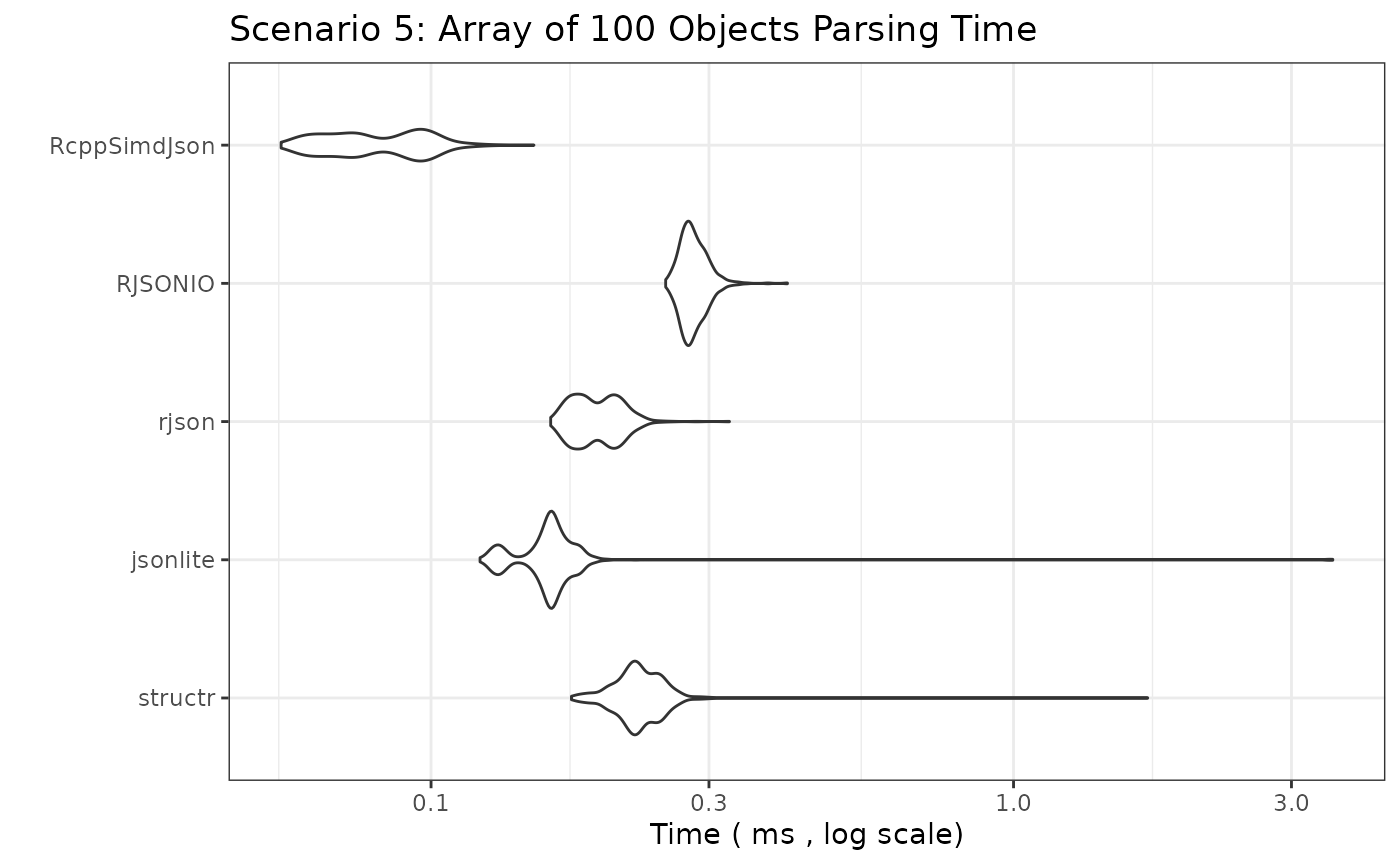
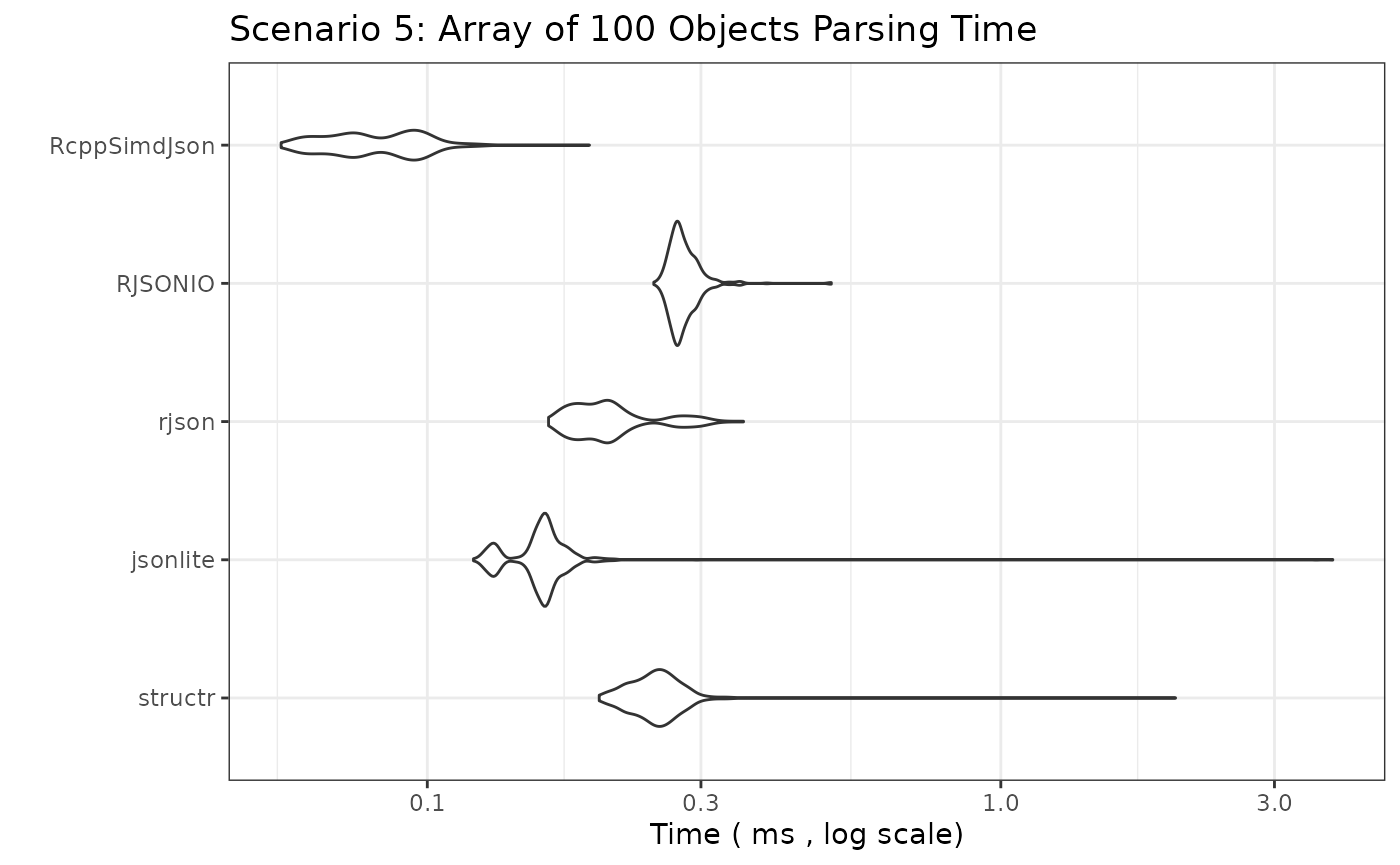
Deploying to gh-pages from @ ixpantia/structr@2acc0bbc21110697dcfd57683c87b0a5578f7c5c 🚀

diff --git a/articles/bench.html b/articles/bench.html
@@ -161,11 +161,11 @@ speed.</p>
 <span><span class="op">)</span></span></code></pre></div>
 <pre><code><span><span class="co">## Unit: microseconds</span></span>
 <span><span class="co">##          expr    min      lq      mean  median      uq      max neval</span></span>
-<span><span class="co">##       structr  4.739  7.6195  9.531368  9.6075 10.7400   34.294  1000</span></span>
-<span><span class="co">##      jsonlite 42.359 50.8900 57.474889 54.3760 63.5180  150.040  1000</span></span>
-<span><span class="co">##         rjson 28.032 36.9490 45.327698 41.5925 46.6675 2754.062  1000</span></span>
-<span><span class="co">##       RJSONIO 35.386 43.6870 49.420515 48.2950 53.4000  112.721  1000</span></span>
-<span><span class="co">##  RcppSimdJson 20.979 28.3025 32.683047 31.7790 35.4560   69.149  1000</span></span></code></pre>
+<span><span class="co">##       structr  4.989  7.7940  9.906767  9.8580 11.0660   59.732  1000</span></span>
+<span><span class="co">##      jsonlite 43.831 51.6215 58.689988 55.4490 65.2920  143.909  1000</span></span>
+<span><span class="co">##         rjson 28.904 37.7000 47.067163 42.1430 47.4635 3731.826  1000</span></span>
+<span><span class="co">##       RJSONIO 34.294 44.8685 50.360389 49.1370 54.2310  162.914  1000</span></span>
+<span><span class="co">##  RcppSimdJson 22.092 28.9490 33.366183 32.2105 36.0820  107.991  1000</span></span></code></pre>
 <p><img src="bench_files/figure-html/bm_simple_object-1.png" width="700" style="display: block; margin: auto;"></p>
 </div>
 <div class="section level3">
@@ -186,12 +186,12 @@ speed.</p>
 <span>  y_label <span class="op">=</span> <span class="fu"><a href="https://rdrr.io/r/base/paste.html" class="external-link">paste</a></span><span class="op">(</span><span class="st">"Time ("</span>, <span class="va">benchmark_unit_fast</span>, <span class="st">", log scale)"</span><span class="op">)</span></span>
 <span><span class="op">)</span></span></code></pre></div>
 <pre><code><span><span class="co">## Unit: microseconds</span></span>
-<span><span class="co">##          expr    min      lq      mean  median     uq      max neval</span></span>
-<span><span class="co">##       structr  3.827  6.0865  7.612567  7.8450  8.926   27.732  1000</span></span>
-<span><span class="co">##      jsonlite 32.220 37.8110 41.422558 41.0520 43.581   82.504  1000</span></span>
-<span><span class="co">##         rjson 32.211 38.3315 43.097983 43.3655 46.246  114.724  1000</span></span>
-<span><span class="co">##       RJSONIO 45.965 53.3795 61.123997 57.5125 60.924 3058.931  1000</span></span>
-<span><span class="co">##  RcppSimdJson 21.270 26.0485 30.165365 30.5470 32.816   83.606  1000</span></span></code></pre>
+<span><span class="co">##          expr    min      lq      mean median      uq      max neval</span></span>
+<span><span class="co">##       structr  3.847  6.0665  7.662411  7.855  8.9820   32.281  1000</span></span>
+<span><span class="co">##      jsonlite 32.681 38.4665 42.054793 41.693 44.3875  105.297  1000</span></span>
+<span><span class="co">##         rjson 32.772 38.1510 43.206272 43.552 46.2820  128.961  1000</span></span>
+<span><span class="co">##       RJSONIO 44.633 53.1990 61.617376 57.532 61.0190 3775.538  1000</span></span>
+<span><span class="co">##  RcppSimdJson 21.740 26.4800 30.135511 30.467 32.6810   76.092  1000</span></span></code></pre>
 <p><img src="bench_files/figure-html/bm_simple_array_int-1.png" width="700" style="display: block; margin: auto;"></p>
 </div>
 <div class="section level3">
@@ -213,11 +213,11 @@ speed.</p>
 <span><span class="op">)</span></span></code></pre></div>
 <pre><code><span><span class="co">## Unit: microseconds</span></span>
 <span><span class="co">##          expr    min      lq      mean  median      uq      max neval</span></span>
-<span><span class="co">##       structr  4.027  6.3515  7.577301  7.8150  8.7210   31.419  1000</span></span>
-<span><span class="co">##      jsonlite 25.648 30.4770 33.981053 33.5525 35.7825   73.928  1000</span></span>
-<span><span class="co">##         rjson 30.136 36.1425 40.461900 40.5205 43.0855  123.150  1000</span></span>
-<span><span class="co">##       RJSONIO 41.737 48.3950 52.873817 52.1170 55.3340  152.876  1000</span></span>
-<span><span class="co">##  RcppSimdJson 21.651 26.4750 33.131584 30.3515 32.5210 3058.911  1000</span></span></code></pre>
+<span><span class="co">##       structr  4.298  6.6525  8.032676  8.2200  9.2270   43.501  1000</span></span>
+<span><span class="co">##      jsonlite 26.669 32.8565 36.452806 35.7470 38.9530  138.749  1000</span></span>
+<span><span class="co">##         rjson 30.617 38.6970 43.426226 42.9255 46.5820  164.327  1000</span></span>
+<span><span class="co">##       RJSONIO 42.350 51.1855 56.598440 55.6440 60.1120  232.204  1000</span></span>
+<span><span class="co">##  RcppSimdJson 22.562 29.8205 38.808722 33.0270 36.6985 5081.154  1000</span></span></code></pre>
 <p><img src="bench_files/figure-html/bm_simple_array_str-1.png" width="700" style="display: block; margin: auto;"></p>
 </div>
 <div class="section level3">
@@ -240,11 +240,11 @@ speed.</p>
 <span><span class="op">)</span></span></code></pre></div>
 <pre><code><span><span class="co">## Unit: microseconds</span></span>
 <span><span class="co">##          expr    min      lq     mean  median      uq      max neval</span></span>
-<span><span class="co">##       structr 17.322 22.8525 25.73599 26.0490 27.9120   70.802  1000</span></span>
-<span><span class="co">##      jsonlite 25.969 34.0340 40.95289 37.7005 40.1900 2946.371  1000</span></span>
-<span><span class="co">##         rjson 41.428 51.7920 57.20000 57.3970 60.8890  123.110  1000</span></span>
-<span><span class="co">##       RJSONIO 54.662 64.5460 71.17018 70.0960 74.7045  179.987  1000</span></span>
-<span><span class="co">##  RcppSimdJson 29.305 37.2950 43.35819 43.6370 46.9630  136.004  1000</span></span></code></pre>
+<span><span class="co">##       structr 18.736 27.3460 31.32745 30.2915 33.7230   76.672  1000</span></span>
+<span><span class="co">##      jsonlite 26.840 36.7635 46.91324 40.1550 44.7185 5061.427  1000</span></span>
+<span><span class="co">##         rjson 42.169 55.8040 63.76038 61.2995 67.9070  149.576  1000</span></span>
+<span><span class="co">##       RJSONIO 57.437 70.0360 79.15891 75.9920 83.7010  210.573  1000</span></span>
+<span><span class="co">##  RcppSimdJson 29.976 42.9705 50.31556 47.8845 54.9570  158.986  1000</span></span></code></pre>
 <p><img src="bench_files/figure-html/bm_nested_object-1.png" width="700" style="display: block; margin: auto;"></p>
 </div>
 <div class="section level3">
@@ -265,12 +265,12 @@ speed.</p>
 <span>  y_label <span class="op">=</span> <span class="fu"><a href="https://rdrr.io/r/base/paste.html" class="external-link">paste</a></span><span class="op">(</span><span class="st">"Time ("</span>, <span class="va">benchmark_unit_medium</span>, <span class="st">", log scale)"</span><span class="op">)</span></span>
 <span><span class="op">)</span></span></code></pre></div>
 <pre><code><span><span class="co">## Unit: milliseconds</span></span>
-<span><span class="co">##          expr      min        lq       mean    median        uq      max neval</span></span>
-<span><span class="co">##       structr 0.174186 0.2154325 0.23050698 0.2263430 0.2425380 1.699343   500</span></span>
-<span><span class="co">##      jsonlite 0.121366 0.1523145 0.17155583 0.1604500 0.1672930 3.532615   500</span></span>
-<span><span class="co">##         rjson 0.160469 0.1769355 0.19340343 0.1901850 0.2074275 0.325307   500</span></span>
-<span><span class="co">##       RJSONIO 0.252802 0.2716820 0.28294108 0.2797825 0.2915600 0.409123   500</span></span>
-<span><span class="co">##  RcppSimdJson 0.055283 0.0671510 0.08172379 0.0777400 0.0958390 0.150201   500</span></span></code></pre>
+<span><span class="co">##          expr      min        lq       mean    median       uq      max neval</span></span>
+<span><span class="co">##       structr 0.199412 0.2329150 0.25422363 0.2504375 0.265245 2.017085   500</span></span>
+<span><span class="co">##      jsonlite 0.120365 0.1522840 0.17143060 0.1596730 0.165464 3.791928   500</span></span>
+<span><span class="co">##         rjson 0.162713 0.1833475 0.21082560 0.2027935 0.218503 0.355935   500</span></span>
+<span><span class="co">##       RJSONIO 0.248263 0.2693580 0.28081374 0.2761205 0.287877 0.506385   500</span></span>
+<span><span class="co">##  RcppSimdJson 0.055603 0.0692740 0.08215516 0.0789675 0.094767 0.191798   500</span></span></code></pre>
 <p><img src="bench_files/figure-html/bm_array_of_objects-1.png" width="700" style="display: block; margin: auto;"></p>
 </div>
 <div class="section level3">
@@ -294,12 +294,12 @@ speed.</p>
 <span>  y_label <span class="op">=</span> <span class="fu"><a href="https://rdrr.io/r/base/paste.html" class="external-link">paste</a></span><span class="op">(</span><span class="st">"Time ("</span>, <span class="va">benchmark_unit_medium</span>, <span class="st">", log scale)"</span><span class="op">)</span></span>
 <span><span class="op">)</span></span></code></pre></div>
 <pre><code><span><span class="co">## Unit: milliseconds</span></span>
-<span><span class="co">##          expr      min        lq      mean   median       uq       max neval</span></span>
-<span><span class="co">##       structr 1.986429 2.2419055 2.4553968 2.336216 2.473233 14.695656   500</span></span>
-<span><span class="co">##      jsonlite 1.375197 1.4279660 1.5303207 1.451615 1.526545  7.036176   500</span></span>
-<span><span class="co">##         rjson 1.336846 1.3897195 1.5510406 1.417456 1.586508  7.551719   500</span></span>
-<span><span class="co">##       RJSONIO 2.025120 2.1868580 2.2916822 2.208829 2.270634  7.335415   500</span></span>
-<span><span class="co">##  RcppSimdJson 0.338092 0.3614995 0.4206155 0.378687 0.408423  0.650985   500</span></span></code></pre>
+<span><span class="co">##          expr      min       lq      mean   median        uq       max neval</span></span>
+<span><span class="co">##       structr 2.265769 2.578804 2.9036278 2.752107 3.0048440 17.525653   500</span></span>
+<span><span class="co">##      jsonlite 1.406956 1.475383 1.5886650 1.538727 1.6026615  6.865344   500</span></span>
+<span><span class="co">##         rjson 1.340402 1.435229 1.6528901 1.487977 1.6257095  8.911183   500</span></span>
+<span><span class="co">##       RJSONIO 2.023657 2.202567 2.3494681 2.261662 2.4152935  9.461571   500</span></span>
+<span><span class="co">##  RcppSimdJson 0.335297 0.362156 0.4459746 0.398183 0.4539875  5.953533   500</span></span></code></pre>
 <p><img src="bench_files/figure-html/bm_large_array_of_objects-1.png" width="700" style="display: block; margin: auto;"></p>
 </div>
 <div class="section level3">
@@ -323,11 +323,11 @@ speed.</p>
 <span><span class="op">)</span></span></code></pre></div>
 <pre><code><span><span class="co">## Unit: milliseconds</span></span>
 <span><span class="co">##          expr      min        lq      mean    median        uq       max neval</span></span>
-<span><span class="co">##       structr 0.185797 0.1936065 0.2078925 0.2000630 0.2204365  0.331228   500</span></span>
-<span><span class="co">##      jsonlite 2.258808 2.6054090 2.7719932 2.6792170 2.7676675 12.109067   500</span></span>
-<span><span class="co">##         rjson 1.039150 1.0654790 1.1567090 1.0788395 1.1047925 12.110981   500</span></span>
-<span><span class="co">##       RJSONIO 2.554389 2.6021480 2.7123386 2.6177225 2.6400540  7.266867   500</span></span>
-<span><span class="co">##  RcppSimdJson 0.189203 0.2030140 0.2203757 0.2122915 0.2365670  0.351796   500</span></span></code></pre>
+<span><span class="co">##       structr 0.186648 0.1962810 0.2138085 0.2072770 0.2259120  0.347279   500</span></span>
+<span><span class="co">##      jsonlite 2.301356 2.6336960 2.8455811 2.7374850 2.9012150  8.663511   500</span></span>
+<span><span class="co">##         rjson 1.045953 1.0732380 1.1874971 1.0961815 1.1324645 12.273910   500</span></span>
+<span><span class="co">##       RJSONIO 2.524543 2.5886515 2.7384983 2.6165240 2.6586880 10.160956   500</span></span>
+<span><span class="co">##  RcppSimdJson 0.190897 0.2064355 0.2320636 0.2234775 0.2521605  0.384829   500</span></span></code></pre>
 <p><img src="bench_files/figure-html/bm_large_array_int-1.png" width="700" style="display: block; margin: auto;"></p>
 </div>
 <div class="section level3">
@@ -350,12 +350,12 @@ speed.</p>
 <span>  y_label <span class="op">=</span> <span class="fu"><a href="https://rdrr.io/r/base/paste.html" class="external-link">paste</a></span><span class="op">(</span><span class="st">"Time ("</span>, <span class="va">benchmark_unit_medium</span>, <span class="st">", log scale)"</span><span class="op">)</span></span>
 <span><span class="op">)</span></span></code></pre></div>
 <pre><code><span><span class="co">## Unit: milliseconds</span></span>
-<span><span class="co">##          expr      min       lq      mean    median        uq       max neval</span></span>
-<span><span class="co">##       structr 0.674389 0.694186 0.7159985 0.7046555 0.7303840  1.102488   500</span></span>
-<span><span class="co">##      jsonlite 2.252555 2.375455 2.5490808 2.4516975 2.6007410 12.412604   500</span></span>
-<span><span class="co">##         rjson 1.299527 1.327723 1.4289570 1.3453065 1.3783135  5.973203   500</span></span>
-<span><span class="co">##       RJSONIO 3.436827 3.497781 3.6296829 3.5207730 3.5551575  8.331405   500</span></span>
-<span><span class="co">##  RcppSimdJson 0.634154 0.656706 0.6811816 0.6703460 0.7008585  1.223705   500</span></span></code></pre>
+<span><span class="co">##          expr      min        lq      mean    median        uq       max neval</span></span>
+<span><span class="co">##       structr 0.678015 0.7033525 0.7276360 0.7213115 0.7443845  1.108359   500</span></span>
+<span><span class="co">##      jsonlite 2.253456 2.4883650 2.7508679 2.6223450 2.8439930 15.095326   500</span></span>
+<span><span class="co">##         rjson 1.326837 1.3615315 1.4917891 1.3976740 1.4380790  9.131083   500</span></span>
+<span><span class="co">##       RJSONIO 3.469116 3.5474370 3.7232365 3.5966035 3.6607125 11.999147   500</span></span>
+<span><span class="co">##  RcppSimdJson 0.635537 0.6561195 0.6975611 0.6845730 0.7209705  1.227180   500</span></span></code></pre>
 <p><img src="bench_files/figure-html/bm_large_array_str-1.png" width="700" style="display: block; margin: auto;"></p>
 </div>
 <div class="section level3">
@@ -377,12 +377,12 @@ speed.</p>
 <span>  y_label <span class="op">=</span> <span class="fu"><a href="https://rdrr.io/r/base/paste.html" class="external-link">paste</a></span><span class="op">(</span><span class="st">"Time ("</span>, <span class="va">benchmark_unit_fast</span>, <span class="st">", log scale)"</span><span class="op">)</span></span>
 <span><span class="op">)</span></span></code></pre></div>
 <pre><code><span><span class="co">## Unit: microseconds</span></span>
-<span><span class="co">##          expr    min      lq      mean median      uq       max neval</span></span>
-<span><span class="co">##       structr 12.694 15.9150  17.94394 17.923 19.3360    56.666  1000</span></span>
-<span><span class="co">##      jsonlite 16.431 19.8170  22.57456 22.452 24.1300    71.123  1000</span></span>
-<span><span class="co">##         rjson 29.916 35.8120  40.18560 40.461 43.1355   110.686  1000</span></span>
-<span><span class="co">##       RJSONIO 38.842 45.4745 136.76639 49.202 52.5380 87077.703  1000</span></span>
-<span><span class="co">##  RcppSimdJson 23.263 27.8970  32.07394 32.035 34.3440    83.666  1000</span></span></code></pre>
+<span><span class="co">##          expr    min      lq      mean  median      uq       max neval</span></span>
+<span><span class="co">##       structr 13.034 16.0300  18.01704 17.9235 19.2100    61.525  1000</span></span>
+<span><span class="co">##      jsonlite 16.691 20.2680  22.97048 22.8975 24.4655    83.687  1000</span></span>
+<span><span class="co">##         rjson 29.996 36.1730  40.75715 40.7965 43.5065   109.114  1000</span></span>
+<span><span class="co">##       RJSONIO 38.732 45.7200 148.37933 49.3870 52.5685 98471.302  1000</span></span>
+<span><span class="co">##  RcppSimdJson 24.236 28.5635  32.24208 32.2805 34.3595    82.273  1000</span></span></code></pre>
 <p><img src="bench_files/figure-html/bm_deep_nest-1.png" width="700" style="display: block; margin: auto;"></p>
 </div>
 <div class="section level3">
@@ -405,11 +405,11 @@ speed.</p>
 <span><span class="op">)</span></span></code></pre></div>
 <pre><code><span><span class="co">## Unit: milliseconds</span></span>
 <span><span class="co">##          expr      min        lq       mean    median        uq      max neval</span></span>
-<span><span class="co">##       structr 0.059050 0.0679365 0.07280493 0.0716240 0.0749045 0.115245   500</span></span>
-<span><span class="co">##      jsonlite 0.039624 0.0495675 0.05371117 0.0532045 0.0560545 0.108112   500</span></span>
-<span><span class="co">##         rjson 0.062907 0.0723400 0.08943322 0.0788620 0.0838970 5.003141   500</span></span>
-<span><span class="co">##       RJSONIO 0.084147 0.0918615 0.10016670 0.0981340 0.1050160 0.185957   500</span></span>
-<span><span class="co">##  RcppSimdJson 0.032791 0.0406510 0.04706820 0.0465415 0.0516110 0.116617   500</span></span></code></pre>
+<span><span class="co">##       structr 0.061995 0.0742585 0.07999881 0.0787970 0.0837565 0.147165   500</span></span>
+<span><span class="co">##      jsonlite 0.042308 0.0515765 0.05604308 0.0552780 0.0587245 0.133369   500</span></span>
+<span><span class="co">##         rjson 0.063889 0.0745540 0.09702592 0.0807455 0.0856000 7.707186   500</span></span>
+<span><span class="co">##       RJSONIO 0.083105 0.0932540 0.10088961 0.0988540 0.1057275 0.222735   500</span></span>
+<span><span class="co">##  RcppSimdJson 0.033592 0.0416080 0.04810750 0.0476740 0.0527835 0.125875   500</span></span></code></pre>
 <p><img src="bench_files/figure-html/bm_wide_object-1.png" width="700" style="display: block; margin: auto;"></p>
 </div>
 </div>

diff --git a/articles/getting_started.html b/articles/getting_started.html
@@ -486,11 +486,13 @@ requirements for serialization:</p>
 <span><span class="co">#&gt; Map {</span></span>
 <span><span class="co">#&gt;     fields: {</span></span>
 <span><span class="co">#&gt;         "eventId": String,</span></span>
+<span><span class="co">#&gt;         "eventType": String,</span></span>
 <span><span class="co">#&gt;         "eventDate": Date {</span></span>
 <span><span class="co">#&gt;             format: "%Y%m%d",</span></span>
 <span><span class="co">#&gt;         },</span></span>
 <span><span class="co">#&gt;         "details": Map {</span></span>
 <span><span class="co">#&gt;             fields: {</span></span>
+<span><span class="co">#&gt;                 "source": String,</span></span>
 <span><span class="co">#&gt;                 "metadata": Optional(</span></span>
 <span><span class="co">#&gt;                     Map {</span></span>
 <span><span class="co">#&gt;                         fields: {</span></span>
@@ -508,24 +510,22 @@ requirements for serialization:</p>
 <span><span class="co">#&gt;                         ],</span></span>
 <span><span class="co">#&gt;                     },</span></span>
 <span><span class="co">#&gt;                 ),</span></span>
-<span><span class="co">#&gt;                 "source": String,</span></span>
 <span><span class="co">#&gt;             },</span></span>
 <span><span class="co">#&gt;             ignore_extra_fields: false,</span></span>
 <span><span class="co">#&gt;             expected_fields_str: [</span></span>
-<span><span class="co">#&gt;                 "metadata",</span></span>
 <span><span class="co">#&gt;                 "source",</span></span>
+<span><span class="co">#&gt;                 "metadata",</span></span>
 <span><span class="co">#&gt;             ],</span></span>
 <span><span class="co">#&gt;         },</span></span>
 <span><span class="co">#&gt;         "userId": Integer,</span></span>
-<span><span class="co">#&gt;         "eventType": String,</span></span>
 <span><span class="co">#&gt;     },</span></span>
 <span><span class="co">#&gt;     ignore_extra_fields: false,</span></span>
 <span><span class="co">#&gt;     expected_fields_str: [</span></span>
 <span><span class="co">#&gt;         "eventId",</span></span>
+<span><span class="co">#&gt;         "eventType",</span></span>
 <span><span class="co">#&gt;         "eventDate",</span></span>
 <span><span class="co">#&gt;         "details",</span></span>
 <span><span class="co">#&gt;         "userId",</span></span>
-<span><span class="co">#&gt;         "eventType",</span></span>
 <span><span class="co">#&gt;     ],</span></span>
 <span><span class="co">#&gt; }</span></span></code></pre></div>
 <p>Now, let’s create some R data that we want to send to this API. It’s
@@ -593,45 +593,45 @@ before producing the JSON.</p>
 <span><span class="fu"><a href="../reference/serialize_json.html">serialize_json</a></span><span class="op">(</span><span class="va">log_entry_data_1</span>, <span class="va">compiled_log_entry_structure_serialize</span>, pretty <span class="op">=</span> <span class="cn">TRUE</span><span class="op">)</span></span>
 <span><span class="co">#&gt; {</span></span>
 <span><span class="co">#&gt;   "eventId": "evt-aaa-001",</span></span>
+<span><span class="co">#&gt;   "eventType": "user_login",</span></span>
 <span><span class="co">#&gt;   "eventDate": "20240815",</span></span>
 <span><span class="co">#&gt;   "details": {</span></span>
+<span><span class="co">#&gt;     "source": "web_frontend",</span></span>
 <span><span class="co">#&gt;     "metadata": {</span></span>
 <span><span class="co">#&gt;       "key": "session_duration",</span></span>
 <span><span class="co">#&gt;       "value": 350.5</span></span>
-<span><span class="co">#&gt;     },</span></span>
-<span><span class="co">#&gt;     "source": "web_frontend"</span></span>
+<span><span class="co">#&gt;     }</span></span>
 <span><span class="co">#&gt;   },</span></span>
-<span><span class="co">#&gt;   "userId": 12345,</span></span>
-<span><span class="co">#&gt;   "eventType": "user_login"</span></span>
+<span><span class="co">#&gt;   "userId": 12345</span></span>
 <span><span class="co">#&gt; }</span></span>
 <span></span>
 <span><span class="co"># Serialize Example 2</span></span>
 <span><span class="fu"><a href="../reference/serialize_json.html">serialize_json</a></span><span class="op">(</span><span class="va">log_entry_data_2</span>, <span class="va">compiled_log_entry_structure_serialize</span>, pretty <span class="op">=</span> <span class="cn">TRUE</span><span class="op">)</span></span>
 <span><span class="co">#&gt; {</span></span>
 <span><span class="co">#&gt;   "eventId": "evt-bbb-002",</span></span>
+<span><span class="co">#&gt;   "eventType": "page_view",</span></span>
 <span><span class="co">#&gt;   "eventDate": "20240816",</span></span>
 <span><span class="co">#&gt;   "details": {</span></span>
-<span><span class="co">#&gt;     "metadata": null,</span></span>
-<span><span class="co">#&gt;     "source": "mobile_app"</span></span>
+<span><span class="co">#&gt;     "source": "mobile_app",</span></span>
+<span><span class="co">#&gt;     "metadata": null</span></span>
 <span><span class="co">#&gt;   },</span></span>
-<span><span class="co">#&gt;   "userId": 98765,</span></span>
-<span><span class="co">#&gt;   "eventType": "page_view"</span></span>
+<span><span class="co">#&gt;   "userId": 98765</span></span>
 <span><span class="co">#&gt; }</span></span>
 <span></span>
 <span><span class="co"># Serialize Example 3</span></span>
 <span><span class="fu"><a href="../reference/serialize_json.html">serialize_json</a></span><span class="op">(</span><span class="va">log_entry_data_3</span>, <span class="va">compiled_log_entry_structure_serialize</span>, pretty <span class="op">=</span> <span class="cn">TRUE</span><span class="op">)</span></span>
 <span><span class="co">#&gt; {</span></span>
 <span><span class="co">#&gt;   "eventId": "evt-ccc-003",</span></span>
+<span><span class="co">#&gt;   "eventType": "item_click",</span></span>
 <span><span class="co">#&gt;   "eventDate": "20240817",</span></span>
 <span><span class="co">#&gt;   "details": {</span></span>
+<span><span class="co">#&gt;     "source": "web_frontend",</span></span>
 <span><span class="co">#&gt;     "metadata": {</span></span>
 <span><span class="co">#&gt;       "key": null,</span></span>
 <span><span class="co">#&gt;       "value": null</span></span>
-<span><span class="co">#&gt;     },</span></span>
-<span><span class="co">#&gt;     "source": "web_frontend"</span></span>
+<span><span class="co">#&gt;     }</span></span>
 <span><span class="co">#&gt;   },</span></span>
-<span><span class="co">#&gt;   "userId": 12345,</span></span>
-<span><span class="co">#&gt;   "eventType": "item_click"</span></span>
+<span><span class="co">#&gt;   "userId": 12345</span></span>
 <span><span class="co">#&gt; }</span></span></code></pre></div>
 <p>Now, let’s see what happens if our R data <em>doesn’t</em> conform to
 the structure expected by the API schema.</p>

diff --git a/reference/s_vector.html b/reference/s_vector.html
@@ -85,13 +85,13 @@ vector. This should be the result of another <code>s_*</code> function call (e.g
 <span class="r-out co"><span class="r-pr">#&gt;</span> Vector(</span>
 <span class="r-out co"><span class="r-pr">#&gt;</span>     Map {</span>
 <span class="r-out co"><span class="r-pr">#&gt;</span>         fields: {</span>
-<span class="r-out co"><span class="r-pr">#&gt;</span>             "id": Integer,</span>
 <span class="r-out co"><span class="r-pr">#&gt;</span>             "name": String,</span>
+<span class="r-out co"><span class="r-pr">#&gt;</span>             "id": Integer,</span>
 <span class="r-out co"><span class="r-pr">#&gt;</span>         },</span>
 <span class="r-out co"><span class="r-pr">#&gt;</span>         ignore_extra_fields: false,</span>
 <span class="r-out co"><span class="r-pr">#&gt;</span>         expected_fields_str: [</span>
-<span class="r-out co"><span class="r-pr">#&gt;</span>             "id",</span>
 <span class="r-out co"><span class="r-pr">#&gt;</span>             "name",</span>
+<span class="r-out co"><span class="r-pr">#&gt;</span>             "id",</span>
 <span class="r-out co"><span class="r-pr">#&gt;</span>         ],</span>
 <span class="r-out co"><span class="r-pr">#&gt;</span>     },</span>
 <span class="r-out co"><span class="r-pr">#&gt;</span> )</span>

diff --git a/reference/serialize_json.html b/reference/serialize_json.html
@@ -111,7 +111,7 @@ format.</p>
 <span class="r-in"><span><span class="op">)</span><span class="op">)</span></span></span>
 <span class="r-in"><span><span class="va">json_string</span> <span class="op">&lt;-</span> <span class="fu">serialize_json</span><span class="op">(</span><span class="va">data</span>, <span class="va">structure</span><span class="op">)</span></span></span>
 <span class="r-in"><span><span class="fu"><a href="https://rdrr.io/r/base/print.html" class="external-link">print</a></span><span class="op">(</span><span class="va">json_string</span><span class="op">)</span></span></span>
-<span class="r-out co"><span class="r-pr">#&gt;</span> {"active":true,"value":123,"name":"Test"} </span>
+<span class="r-out co"><span class="r-pr">#&gt;</span> {"value":123,"name":"Test","active":true} </span>
 </code></pre></div>
     </div>
   </main><aside class="col-md-3"><nav id="toc" aria-label="Table of contents"><h2>On this page</h2>
